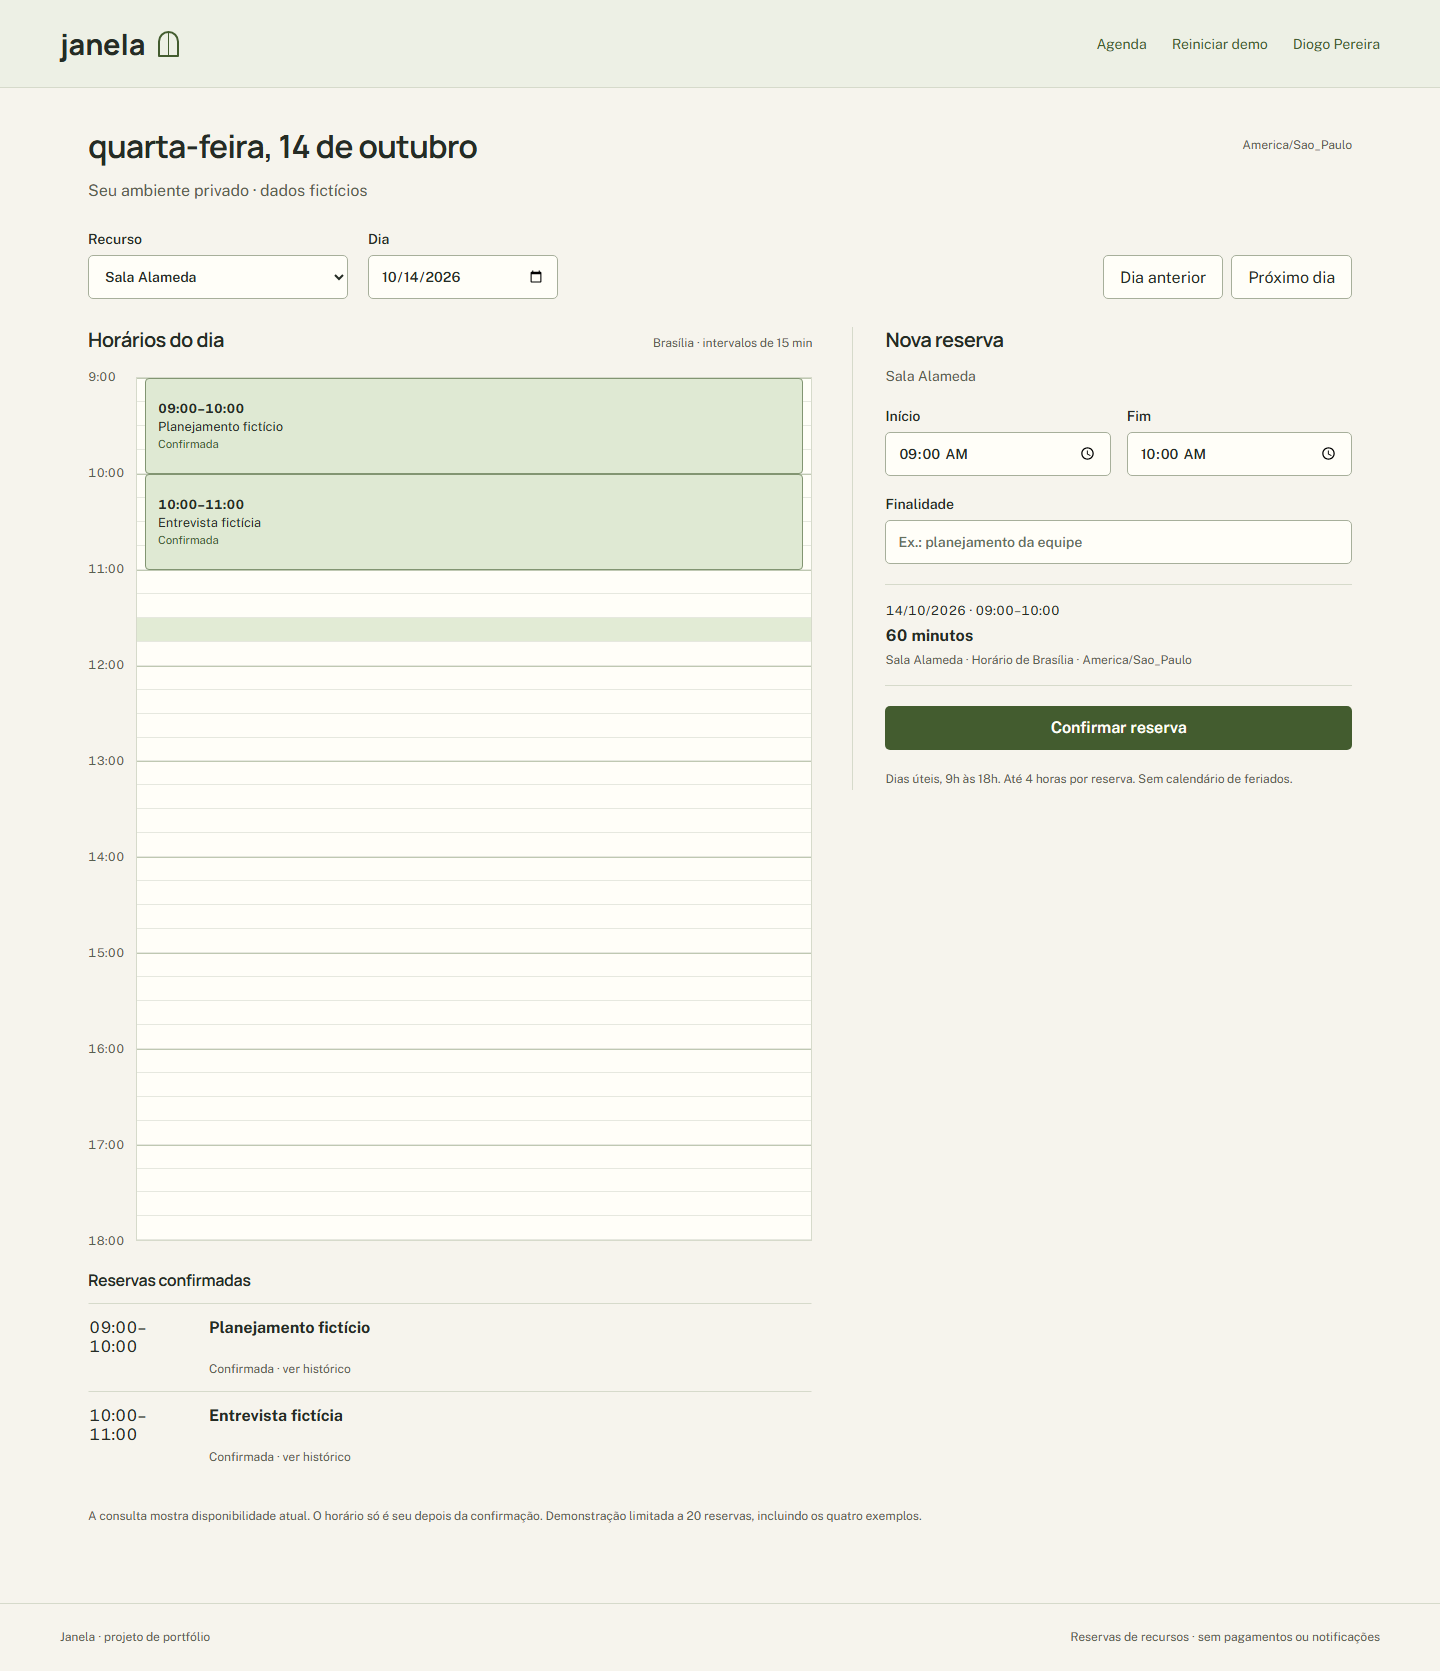
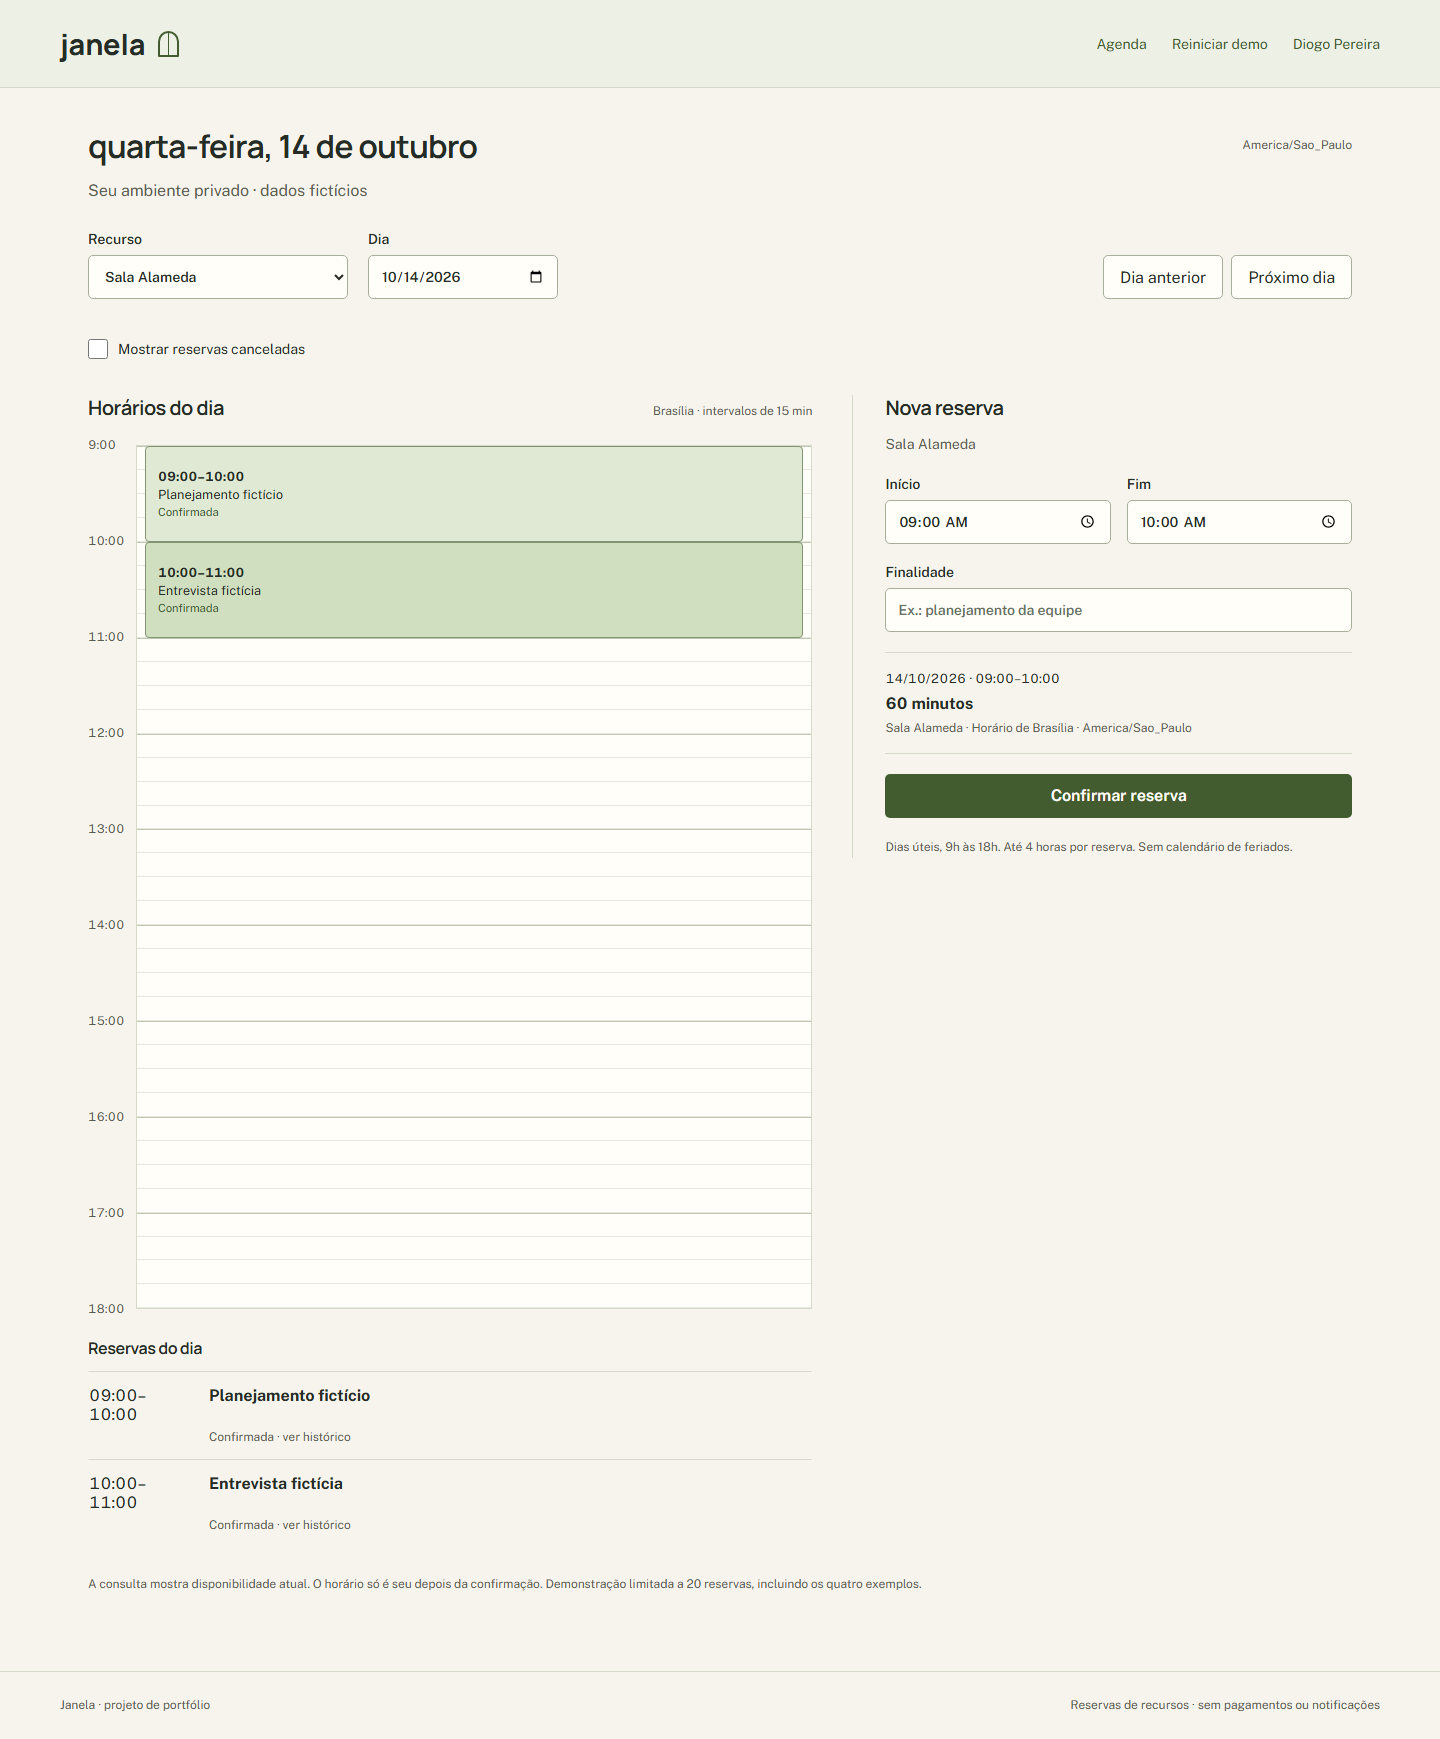
docs: present the live agenda with verified deployment evidence

diff --git a/docs/hosting.md b/docs/hosting.md
@@ -1,26 +1,38 @@
 # Hospedagem
 
-O Janela usa uma função Express na Vercel, região São Paulo (`gru1`), e assets
-React em `public/` servidos pelo CDN. As quatro rotas de navegação recebem
-`index.html`; `/api/*` e `/health/ready` permanecem no servidor Express.
+O Janela usa o preset Vite para publicar os assets React gerados em `public/`
+no CDN e uma função Express em `api/index.ts`, região São Paulo (`gru1`).
+As quatro rotas de navegação recebem `index.html`; `/api/*` e `/health/ready`
+chegam à função mantendo o caminho original para o router Express.
 O build compila a interface e o backend, sem migrar ou semear o banco.
 O servidor local recebe um router de assets próprio; a entrada publicada contém
 somente a API. Isso evita que o rastreamento da função tente compilar fontes
 React ou incluir arquivos de desenvolvimento. O build da Vercel foi reproduzido
-localmente e passou após essa separação. Helmet é resolvido pela entrada CommonJS
-callable do pacote para manter o mesmo middleware nos dois compiladores.
+localmente no preset Express e passou após essa separação. A configuração final
+Vite/API passou no build remoto; o CLI local no Windows encontrou `cmd.exe ENOENT`
+nesse preset, e essa execução não é registrada como aprovada. Helmet é resolvido
+pela entrada CommonJS do pacote para manter o mesmo middleware nos compiladores;
+o `require` explícito permite ao tracer incluir a dependência na função.
+
+O upload exclui apenas os diretórios gerados na raiz. Os arquivos originais de
+fontes em `frontend/public/` continuam incluídos e são copiados pelo Vite.
+Gerar assets no build remoto evita misturar hashes de builds locais e remotos.
+
+A integração automática de Express foi substituída porque a publicação real
+não entregava os assets gerados. A API manteve seu export; o wrapper explícito
+e o preset Vite permitem verificar frontend e backend na mesma origem.
 
 ## Banco e permissões
 
 O PostgreSQL Neon usa o plano Free, em um projeto exclusivo para o Janela.
 Migrations são aplicadas pela conexão administrativa direta com TLS verificado.
-Na preparação real, `btree_gist`1.8 foi instalado e as duas migrations passaram.
+Na preparação real, `btree_gist` 1.8 foi instalado e as duas migrations passaram.
 
 A função recebe somente a URL de `janela_app`, uma role sem superuser,
 criação de bancos, criação de roles ou permissão de criar objetos no schema.
 Ela pode executar o CRUD necessário nas tabelas de operação. Eventos permitem
 somente leitura e inserção, e o registro de migrations permite somente leitura.
-A verificação real negou UPDATE/DELETE de eventos e CREATE TABLE com42501.
+A verificação real negou UPDATE/DELETE de eventos e CREATE TABLE com 42501.
 Criar uma demo gravou os quatro eventos esperados; remover sua geração inteira
 pela role limitada apagou os eventos por cascade, conforme a política de coleta.
 
@@ -46,6 +58,9 @@ Os testes de integração usam outro banco, nunca o banco público.
 
 ## Estado de publicação
 
-Projeto Vercel e banco foram criados e as permissões verificadas. O primeiro
-deploy, CI remoto, navegador hospedado e persistência após redeploy ainda estão
-em validação. A existência desses recursos não declara a aplicação publicada.
+A demonstração está em https://janela-diogopbr.vercel.app. A CI Linux e o build
+remoto passaram. Os quatro cenários Playwright hospedados passaram juntos em 22,3s.
+Cookie Secure/HttpOnly/SameSite=Lax, CSRF 419 e caminhos privados 404 foram verificados.
+Uma sessão salva antes de um redeploy abriu a mesma reserva e geração depois dele;
+o cancelamento com essa sessão também passou. O PostgreSQL permanece a fonte dos
+dados e sessões, independentemente da instância da função.

diff --git a/README.md b/README.md
@@ -1,16 +1,17 @@
 # Janela
 
 Reserva de espaços e equipamentos com React, Node.js/TypeScript e PostgreSQL.
-Projeto de portfólio de Diogo Pereira, em implementação na pasta3.
+Projeto de portfólio de Diogo Pereira.
 
-O fluxo planejado permite reservar, remarcar, cancelar e consultar histórico.
-A regra central será impedir sobreposição no banco, incluindo confirmação
+O fluxo permite reservar, remarcar, cancelar e consultar histórico.
+A regra central impede sobreposição no banco, incluindo confirmação
 simultânea, e explicar o conflito sem descartar o formulário.
 
 [Especificação](docs/superpowers/specs/2026-10-10-janela-design.md).
 
-Não há aplicação publicada nesta etapa. Demonstração e
-dados serão fictícios; sem pagamentos, feriados, recorrência ou calendário externo.
+[Experimentar a demonstração](https://janela-diogopbr.vercel.app).
+Cada visitante recebe seu ambiente privado com dados fictícios, válido por 24h.
+Sem pagamentos, feriados, recorrência ou calendário externo.
 
 ## Fundação verificada
 
@@ -24,13 +25,18 @@ processos independentes para a prova de exclusão. Tipagem TypeScript, formataç
 e build React/Node passaram. Acesso, criação, remarcação e cancelamento estão
 implementados, com 12 testes frontend. O navegador local percorreu iniciar,
 criar, remarcar, cancelar e recarregar o histórico. Capturas desktop1440/mobile390
-tiveram axe0, sem overflow horizontal ou erro JavaScript. CI e hospedagem pendentes.
+tiveram axe0, sem overflow horizontal ou erro JavaScript.
 
 Os quatro cenários Playwright passaram juntos no banco isolado de teste, incluindo
 recuperação de conflito entre abas e consulta de reservas canceladas. Evidências
 e limites em [verificação local](docs/evidence/verification.md). No Windows
 preparado, `./scripts/verify.ps1` executa todos os checks e migrations somente
 em `janela_test`.
+
+Os quatro fluxos também passaram na Vercel, em 22,3s, com PostgreSQL Neon real.
+A CI Linux passou com Node24.15/PostgreSQL17.10. Sessão e reserva persistiram
+após redeploy; cookies seguros, CSRF e arquivos privados foram verificados.
+Configuração e permissões em [hospedagem](docs/hosting.md).
 
 Contratos: [acesso](docs/contracts/access.md) e [reservas](docs/contracts/reservations.md).
 

diff --git a/docs/evidence/verification.md b/docs/evidence/verification.md
@@ -50,10 +50,20 @@ igual à viewport e nenhum pageerror. A revisão independente solicitou três
 correções e depois marcou todas como resolvidas; o parecer cobre essas correções.
 Tokens e componentes atuais estão em DESIGN.md; screenshots reais em docs/screenshots.
 
+## Publicação verificada
+
+A CI Linux [38500030936](https://github.com/Diogopbr/janela/actions/runs/38500030936)
+passou no commit7c96e0a14506259d7344433dc8a4c8344d1ea6ff.
+Os quatro cenários completos passaram em 22,3s na demonstração pública, com API e
+Neon reais. Readiness/auth retornaram JSON 200; página e fontes retornaram 200.
+Cookie Secure/HttpOnly/Lax, CSRF 419 e cinco caminhos privados 404 passaram.
+Depois de redeploy, a mesma sessão abriu a mesma reserva/geração e cancelou o
+intervalo; axe0 e nenhum pageerror nesse percurso. Capturas publicadas foram
+atualizadas com o runtime hospedado.
+
 ## Limites da evidência
 
-A CI Linux está configurada, mas ainda não foi executada remotamente. Não há
-deploy, URL pública, prova de HTTPS/cookies hospedados ou publicação social do
-Janela. Build local não declara comportamento da plataforma de hospedagem.
-O build ainda informa um chunk agregado próximo de664KB minificado; a análise
-de carregamento pode motivar divisão por rota antes da publicação.
+Não houve publicação social. O build de desenvolvimento local informa um chunk
+próximo de664KB minificado; o build remoto de produção gerou444KB/135KB gzip.
+Não foi realizado benchmark de carregamento ou teste de volume. Essa diferença
+de build não representa uma otimização medida nem dispensa avaliação futura.

diff --git a/PRODUCT.md b/PRODUCT.md
@@ -37,12 +37,15 @@ Modo normal exige instalação explícita de credenciais próprias.
 
 ## Evidence on Hand
 
-39 testes de backend passaram, incluindo duas instâncias HTTP e processos PostgreSQL
+40 testes de backend passaram, incluindo duas instâncias HTTP e processos PostgreSQL
 independentes com espera observada e controle negativo da exclusão. O navegador local
 percorreu iniciar demo, criar, remarcar, cancelar e recarregar o histórico. Capturas
 desktop1440/mobile390 tiveram axe0, sem overflow horizontal ou erro JavaScript.
 Tipagem e build passaram. A revisão visual marcou as três correções solicitadas
-como resolvidas. CI e publicação ainda pendentes.
+como resolvidas. Os 12 testes frontend e os quatro fluxos E2E locais passaram.
+A CI Linux passou, e os quatro fluxos também passaram na Vercel com Neon real,
+incluindo versões concorrentes e consulta de canceladas. Sessão e reserva foram
+mantidas após redeploy; cookies, CSRF e arquivos privados foram verificados.
 Contratos e limitações estão em docs/contracts. Não há clientes ou receita a alegar.
 
 ## Product Principles
